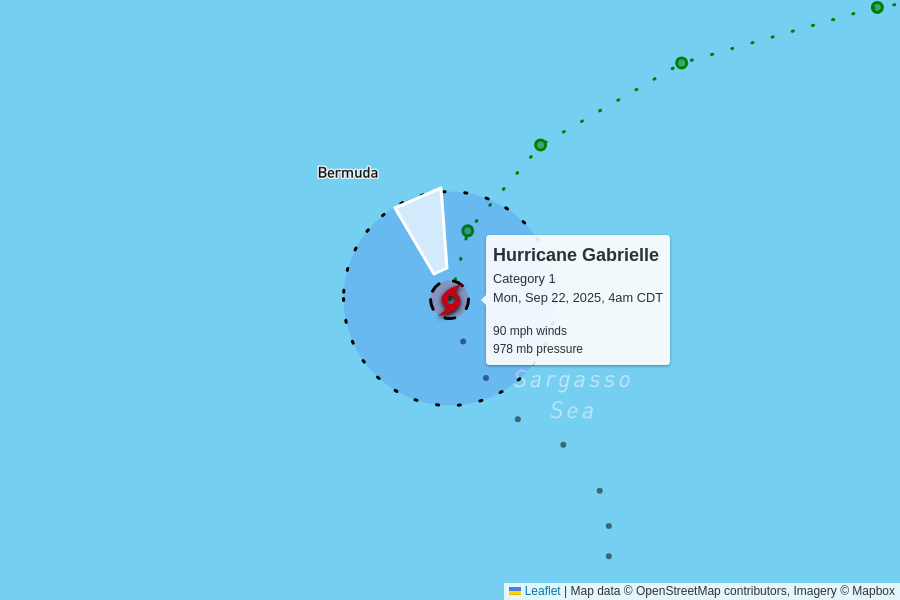
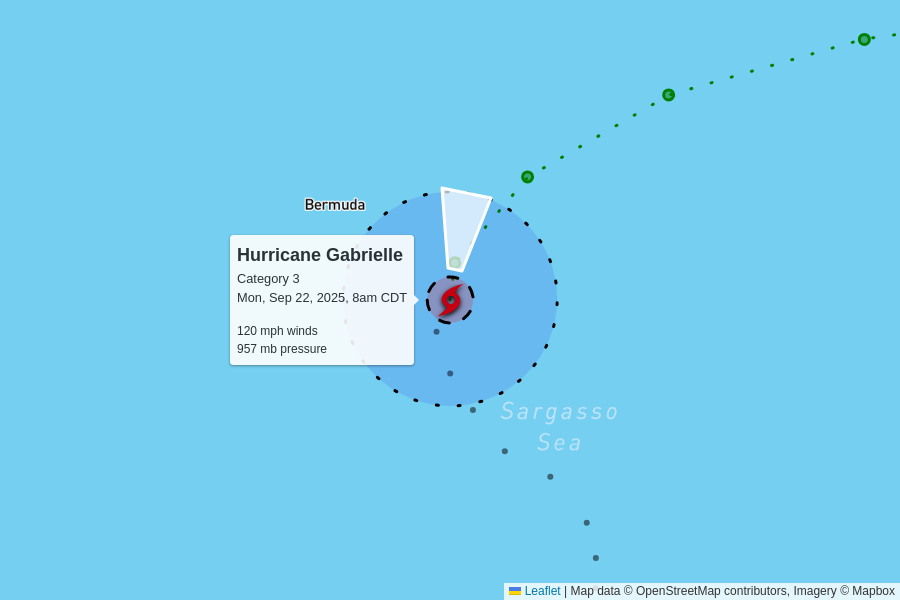
automatic update

diff --git a/docs/index.html b/docs/index.html
@@ -99,10 +99,10 @@
 
     <table>
       <tr>
-        <td colspan="6" class="storm category-1" >
+        <td colspan="6" class="storm category-3" >
           <h2>
-            Hurricane Gabrielle - Category 1
-            <p class="updated">last updated <span data-time>2025-09-22T09:00:00.000Z</span></p>
+            Hurricane Gabrielle - Category 3
+            <p class="updated">last updated <span data-time>2025-09-22T13:00:00.000Z</span></p>
           </h2>
         </td>
       </tr>
@@ -117,12 +117,12 @@
       </tr>
       <tr>
         <td class="spacer"></td>
-        <td>90 mph<br>+15 mph since last update</td>
-        <td>978 mb<br>-14 mb since last update</td>
+        <td>120 mph<br>+30 mph since last update</td>
+        <td>957 mb<br>-21 mb since last update</td>
         <td>
-          10 mph to the north-northwest
+          10 mph to the north
           <br/>
-          <span style="display: inline-block; font-size: 1.5em; transform: rotate(340deg);">↑</span>
+          <span style="display: inline-block; font-size: 1.5em; transform: rotate(10deg);">↑</span>
         </td>
         <td><a href="https://raw.githubusercontent.com/mgwalker/atlantic-hurricanes/main/data/csv/AL072025.csv">AL072025.csv</a></td>
         <td><a href="https://www.nhc.noaa.gov/archive/2025/GABRIELLE.shtml?">NHC advisories</a></td>
